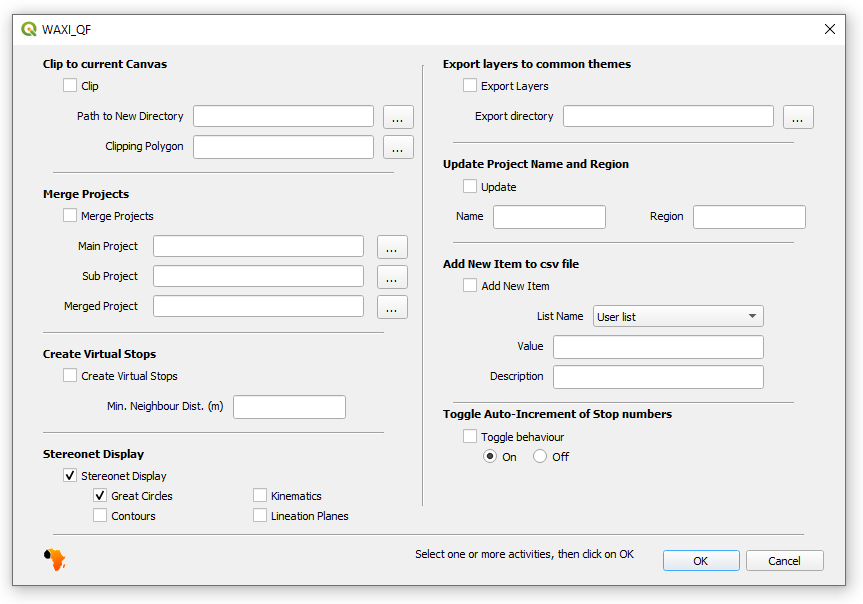
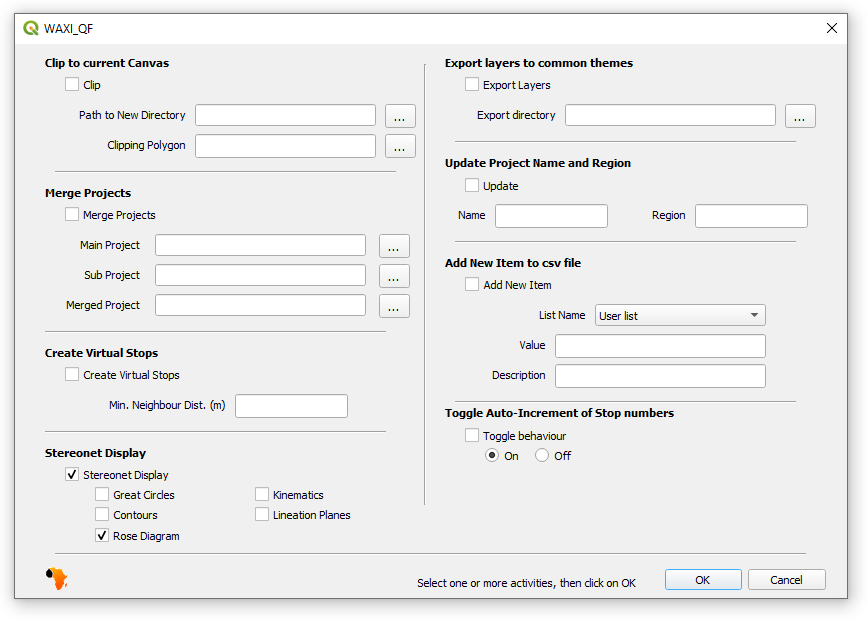
Add rose diagrams

Changed region(s): [[0.0, 0.0, 0.9942, 0.9834], [0.5122, 0.0894, 0.7532, 0.149], [0.7532, 0.3278, 0.934, 0.3874]]

diff --git a/WAXI_QF.py b/WAXI_QF.py
@@ -765,7 +765,8 @@ class WAXI_QF:
         stereoConfig={'showGtCircles':self.dlg.gtCircles_checkBox.isChecked(),
                       'showContours':self.dlg.contours_checkBox.isChecked(),
                       'showKinematics':self.dlg.kinematics_checkBox.isChecked(),
-                      'linPlanes':self.dlg.linPlanes_checkBox.isChecked()}
+                      'linPlanes':self.dlg.linPlanes_checkBox.isChecked(),
+                      'roseDiagram':self.dlg.rose_checkBox.isChecked()}
 
         with open(stereoConfigPath, "w") as outfile:
             json.dump(stereoConfig, outfile, indent=4)
@@ -807,6 +808,7 @@ class WAXI_QF:
         contours_tooltip= 'Select Checkbox to add Contour Display for Stereonet Plugin'
         kinematics_tooltip= 'Select Checkbox to add kinematics for Lineation Display for Stereonet Plugin'
         linPlanes_tooltip= 'Select Checkbox to add Associated Great Circles to Lineation Display for Stereonet Plugin'
+        rose_tooltip= 'Select Checkbox to display rose diagram instead of stereoplot in Stereonet Plugin'
         stereonet_tooltip= 'Select Checkbox to control Display behaviour for Stereonet Plugin'
 
         self.dlg.label_4.setToolTip(Clip_tooltip)
@@ -854,6 +856,7 @@ class WAXI_QF:
         self.dlg.kinematics_checkBox.setToolTip(kinematics_tooltip)
         self.dlg.stereonet_checkBox.setToolTip(stereonet_tooltip)
         self.dlg.linPlanes_checkBox.setToolTip(linPlanes_tooltip)
+        self.dlg.rose_checkBox.setToolTip(rose_tooltip)
 
 
 
@@ -903,7 +906,7 @@ class WAXI_QF:
 
                 stereoConfigPath = head_tail[0]+"/0. FIELD DATA/0. CURRENT MISSION/0. STOPS-SAMPLING-PHOTOGRAPHS-COMMENTS/stereonet.json"
 
-                stereoConfig={'showGtCircles':True,'showContours':True,'showKinematics':True,'linPlanes':True}
+                stereoConfig={'showGtCircles':True,'showContours':True,'showKinematics':True,'linPlanes':True,'roseDiagram':True}
                 if(os.path.exists(stereoConfigPath)):
                     with open(stereoConfigPath,"r") as json_file:
                         stereoConfig=json.load(json_file)
@@ -912,6 +915,7 @@ class WAXI_QF:
                 self.dlg.contours_checkBox.setChecked(stereoConfig['showContours'])
                 self.dlg.kinematics_checkBox.setChecked(stereoConfig['showKinematics'])
                 self.dlg.linPlanes_checkBox.setChecked(stereoConfig['linPlanes'])
+                self.dlg.rose_checkBox.setChecked(stereoConfig['roseDiagram'])
 
 
                 self.define_tips()
@@ -962,7 +966,7 @@ class WAXI_QF:
                 
                 stereoConfigPath = head_tail[0]+"/0. FIELD DATA/0. CURRENT MISSION/0. STOPS-SAMPLING-PHOTOGRAPHS-COMMENTS/stereonet.json"
 
-                stereoConfig={'showGtCircles':True,'showContours':True,'showKinematics':True,'linPlanes':True}
+                stereoConfig={'showGtCircles':True,'showContours':True,'showKinematics':True,'linPlanes':True,'roseDiagram':True}
                 if(os.path.exists(stereoConfigPath)):
                     with open(stereoConfigPath,"r") as json_file:
                         stereoConfig=json.load(json_file)
